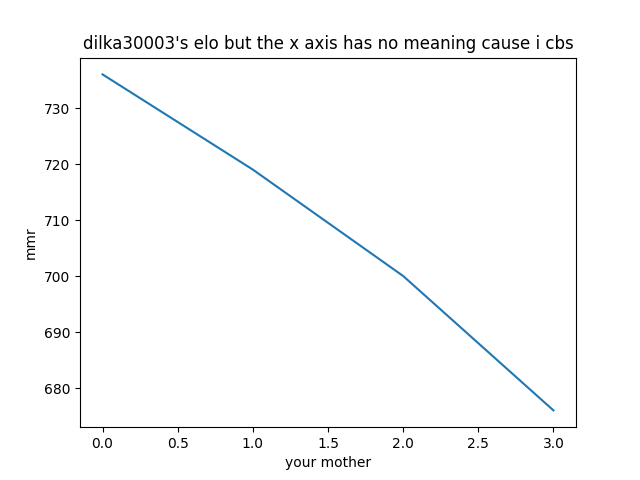
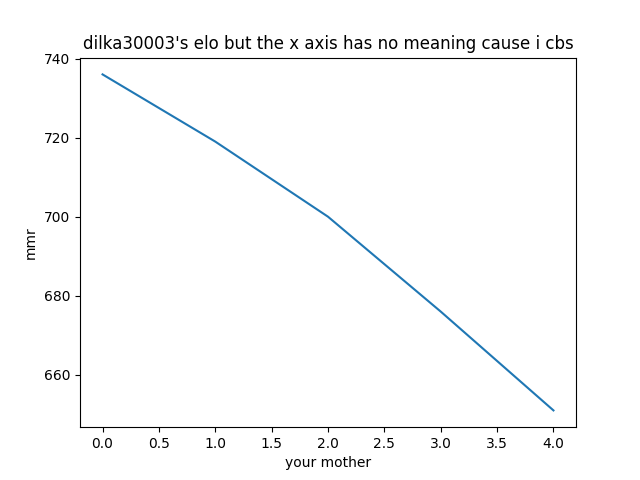
elolist updates elo hisotry first

diff --git a/elo_history_updater.py b/elo_history_updater.py
@@ -33,7 +33,7 @@ def update_all_elo_history():
     update_count = 0
     for i in range(0, len(players)):
         update_count += elo_history.update_elo_history(players[i][0], players[i][1])
-        print("completed " + str(i + 1) + "/" + str(len(players)))
+        #print("completed " + str(i + 1) + "/" + str(len(players)))
 
     return str(update_count) + " updates"
 

diff --git a/elo_history.py b/elo_history.py
@@ -106,7 +106,8 @@ def get_elolist(username):
     for player in players:
         if player[0] == username:
             tagline = player[1]
-
+            
+    update_elo_history(username, tagline)
     player_data = get_elo_history(username, tagline)
     if player_data == False:
         return 0

diff --git a/valorant_online.py b/valorant_online.py
@@ -95,7 +95,7 @@ def form_partys():
 def everything():
 
     parties = form_partys()
-    final = [("Players:", "")]
+    final = [("Players Online:", "")]
     
     for i in range(0, len(players)):
         entry = (names[players[i][0]].ljust(8), get_status(players[i][0]))

diff --git a/graphs.py b/graphs.py
@@ -62,5 +62,3 @@ def make_graph(username):
 def make_all_graphs():
     for i in range(0, len(players)):
         make_graph(players[i][0])
-
-make_all_graphs()
